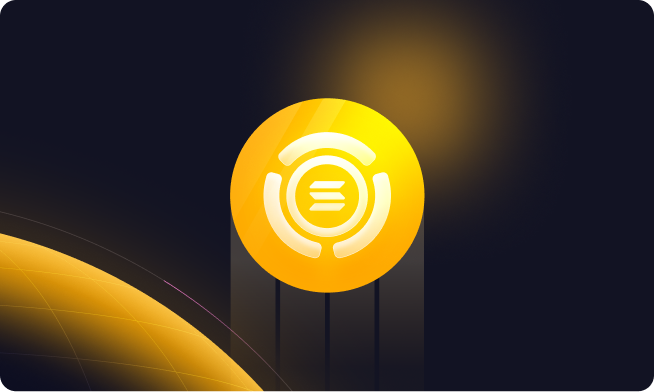
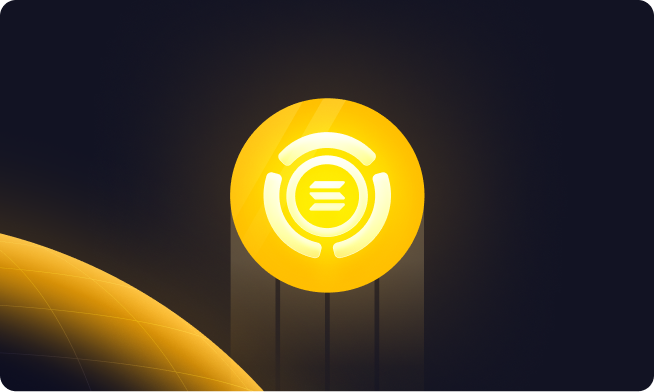
feat: update animation and colors

Changed region(s): [[0.4893, 0.0, 0.7951, 0.4592], [0.3058, 0.2755, 0.6422, 0.8265]]

diff --git a/components/HeroSection.tsx b/components/HeroSection.tsx
@@ -106,31 +106,31 @@ export const HeroSection = (): JSX.Element => {
                 ))}
               </div>
             )}
-            <Image
-              src={isMobile ? "/image/hero-ball-m.svg" : "/image/hero-ball.svg"}
-              alt="Pink Gradient"
-              width={200}
-              height={200}
-              className="w-[60%] max-w-[260px] md:max-w-[340px] hero-image absolute z-20 rounded-full"
-              unoptimized
-            />
             <div
-              className="absolute h-full top-[40%] w-[60%] max-w-[260px] md:max-w-[340px] rounded-[9999px_9999px_0px_0px] flex flex-row justify-center items-center z-10"
+              className="absolute h-full top-1/4 w-full max-w-[324px] md:max-w-[348px] flex flex-row z-10 object-cover px-[2px]"
             >
+              <Image
+                src={isMobile ? "/image/hero-ball-m.svg" : "/image/hero-ball.svg"}
+                alt="Pink Gradient"
+                width={200}
+                height={200}
+                className="w-full max-w-[320px] top-1 md:max-w-[340px] hero-image absolute z-20 rounded-full md:mt-[6px]"
+                unoptimized
+              />
               <div
-                className="flex w-full h-full items-start p-1 bg-gradient-bar gap-4 relative"
+                className="flex w-full h-full items-start p-1 bg-gradient-to-t from-[#FEAA01]/5 md:from-[#2E2E2E]/5 to-[#FEAA01]/30 md:to-[#2E2E2E]/25 rounded-[9999px_9999px_0px_0px] px-[2px`] gap-4 relative"
               >
                 <div
-                  className="h-full w-full bg-gradient-bar-tab flex relative top-5"
+                  className="h-full w-full bg-gradient-bar-tab bg-gradient-to-t from-[#FEAA01]/10 md:from-[#2E2E2E]/5 to-[#FEAA01]/30 md:to-[#2E2E2E]/25 flex relative top-1/2 md:top-1/3"
                 />
                 <div
-                  className="h-full w-full bg-gradient-bar-tab flex relative top-5"
+                  className="h-full w-full bg-gradient-bar-tab bg-gradient-to-t from-[#FEAA01]/10 md:from-[#2E2E2E]/5 to-[#FEAA01]/30 md:to-[#2E2E2E]/25 flex relative top-1/2 md:top-1/3"
                 />
                 <div
-                  className="h-full w-full bg-gradient-bar-tab flex relative top-5"
+                  className="h-full w-full bg-gradient-bar-tab bg-gradient-to-t from-[#FEAA01]/10 md:from-[#2E2E2E]/5 to-[#FEAA01]/30 md:to-[#2E2E2E]/25 flex relative top-1/2 md:top-1/3"
                 />
                 <div
-                  className="h-full w-full bg-gradient-bar-tab flex relative top-5"
+                  className="h-full w-full bg-gradient-bar-tab bg-gradient-to-t from-[#FEAA01]/10 md:from-[#2E2E2E]/5 to-[#FEAA01]/30 md:to-[#2E2E2E]/25 flex relative top-1/2 md:top-1/3"
                 />
               </div>
             </div>

diff --git a/components/MainContent.tsx b/components/MainContent.tsx
@@ -17,6 +17,7 @@ import { Partner10Icon, Partner11Icon, Partner12Icon, Partner13Icon, Partner1Ico
 import { DegenAnimation } from "./ui/DegenAnimation";
 import { useWindowSize } from "../lib/useWindowSize";
 import { MobileDegenAnimation } from "./ui/MobileDegenAnimation";
+import { AnimatedSatelliteOrbit } from "@/components/ui/AnimatedSatellite";
 import { Icon } from "@iconify/react";
 
 
@@ -333,10 +334,13 @@ export const MainContentSection = (): JSX.Element => {
                     {/* Right column: Large logo card */}
                     <Card className="relative w-full h-[390px] md:flex-1 bg-[url('/image/hubsol-sec.png')] bg-cover bg-center rounded-2xl overflow-hidden flex items-center justify-center">
                         <FloatingOrbsAnimation />
+                        <div className="w-[600px] h-[304px] flex relative -bottom-16 -left-20">
+                            <AnimatedSatelliteOrbit />
+                        </div>
                     </Card>
 
                     {/* Left column: 2 stacked cards */}
-                    <div className="flex flex-col gap-6 w-full md:w-[370px]">
+                    <div className="flex flex-col justify-between w-full h-[390px] md:w-[370px]">
                         {/* $13M TVL Card */}
                         <Card className="relative h-[180px] bg-card rounded-2xl flex flex-col w-full justify-between p-6 overflow-hidden">
                             {/* Chart line (placeholder) */}
@@ -497,13 +501,13 @@ export const MainContentSection = (): JSX.Element => {
                         </div>
                     </div>
                     {/* center column */}
-                    <div className="flex items-center justify-center w-[180px] h-auto md:hidden lg:block lg:w-full">
+                    <div className="flex items-center justify-center w-full max-w-[180px] h-auto md:hidden lg:block md:max-w-[320px]">
                         <Image
                             alt="Logo"
                             src="/image/hero-ball.svg"
                             width={323}
                             height={323}
-                            className="w-full h-auto hidden md:flex"
+                            className="w-full h-auto hidden md:flex max-w-[320px] max-h-[320px]"
                         />
                         <Image
                             alt="Logo"

diff --git a/tailwind.config.js b/tailwind.config.js
@@ -145,12 +145,12 @@ const config = {
         },
 
         // Background gradients
-        '.bg-gradient-bar': {
-          'background': 'linear-gradient(180deg, #FEAA0100 12%, #FEAA0110 100%)',
-        },
-        '.bg-gradient-bar-tab': {
-          'background': 'linear-gradient(180deg, #FEAA0100 0%, #FEAA0110 100%)',
-        },
+        // '.bg-gradient-bar': {
+        //   'background': 'linear-gradient(180deg, #FEAA0100 12%, #FEAA0110 100%)',
+        // },
+        // '.bg-gradient-bar-tab': {
+        //   'background': 'linear-gradient(180deg, #FEAA0100 0%, #FEAA0110 100%)',
+        // },
       })
     }
   ]
